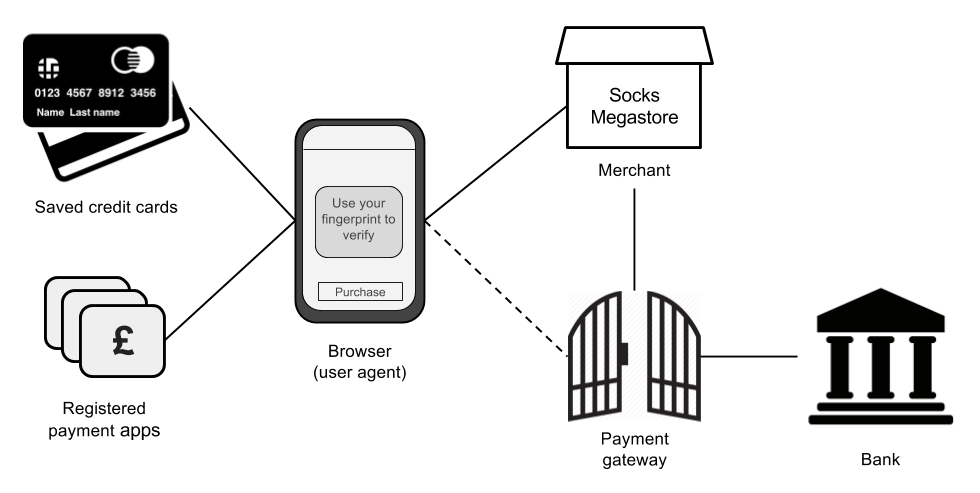
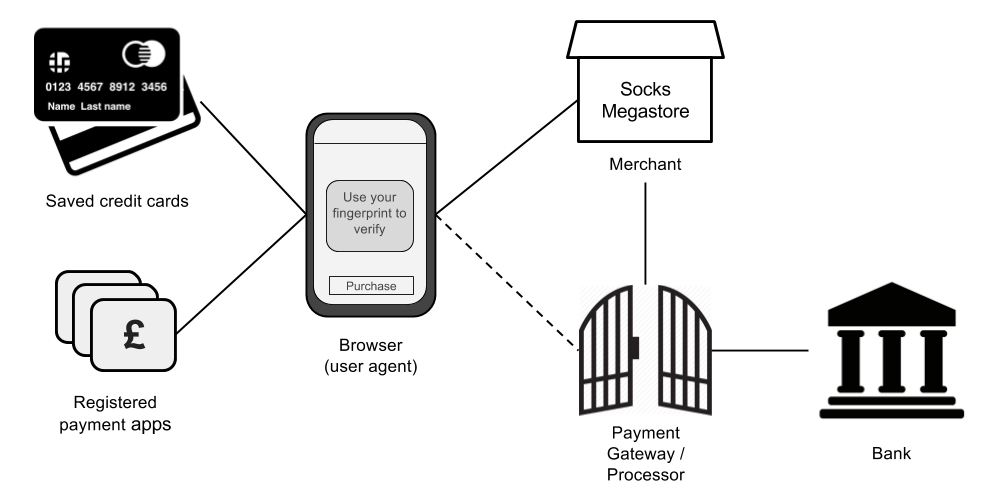
Updates - Payment Gateway / Processor

diff --git a/public/index.html b/public/index.html
@@ -1052,7 +1052,7 @@ h2 + .quote {
 <span class="hljs-keyword">new</span> PaymentRequest(methodData, details)
   .show()
   .then(<span class="hljs-function"><span class="hljs-keyword">function</span>(<span class="hljs-params">paymentResponse</span>) </span>{
-    <span class="hljs-comment">// Process paymentResponse via gateway, then...</span>
+    <span class="hljs-comment">// Process paymentResponse via gateway/processor, then...</span>
     paymentResponse.complete(<span class="hljs-string">'success'</span>);
   })
   .catch(<span class="hljs-function"><span class="hljs-keyword">function</span>(<span class="hljs-params">error</span>) </span>{
@@ -1232,8 +1232,9 @@ h2 + .quote {
 <div class="credit"><a href="https://www.flickr.com/photos/rayche1989/5203972988">Ray Che</a></div></section>
   </div>
   <div class="slide hidden  img-with-caption payment-gateways" id="slide-35">
-    <section class="slide-content"><h3 id="payment-gateways">Payment Gateways</h3>
-<p><img src="images/web-payments-parties.png" alt="Payment parties"></p>
+    <section class="slide-content"><p><img src="images/web-payments-parties.png" alt="Payment parties"></p>
+<div class="caption">Payment Gateways / Payment Processors / Payment Service Providers (PSPs)</div>
+
 <div class="credit"><a href="https://www.flickr.com/photos/rayche1989/5203972988">Ray Che</a></div>
 
 <!-- img-with-header -->
@@ -1242,8 +1243,9 @@ h2 + .quote {
 <!-- <div class="credit">[Ray Che](https://www.flickr.com/photos/rayche1989/5203972988)</div> --></section>
   </div>
   <div class="slide hidden" id="slide-36">
-    <section class="slide-content"><h3 id="example-payment-gateway-wepay">Example payment gateway: WePay</h3>
+    <section class="slide-content"><h3 id="example-psp-wepay">Example PSP: WePay</h3>
 <p><img src="images/wepay-screenshot.png" alt="WePay docs screenshot"></p>
+<pre><code class="lang-javascript">WePay.wallet.beginTokenization(...);</code></pre>
 <div class="caption"><a href="https://developer.wepay.com/docs/mobile/payment-request-api">developer.wepay.com/docs/mobile/payment-request-api</a></div>
 
 <div class="credit"><a href="https://www.flickr.com/photos/rayche1989/5203972988">Ray Che</a></div></section>

diff --git a/src/index.md b/src/index.md
@@ -178,7 +178,7 @@ var details = {
 new PaymentRequest(methodData, details)
   .show()
   .then(function(paymentResponse) {
-    // Process paymentResponse via gateway, then...
+    // Process paymentResponse via gateway/processor, then...
     paymentResponse.complete('success');
   })
   .catch(function(error) {
@@ -408,9 +408,9 @@ if (paymentRequest.canMakePayment) {
 
 -- img-with-caption payment-gateways
 
-### Payment Gateways
-
 ![Payment parties](images/web-payments-parties.png)
+
+<div class="caption">Payment Gateways / Payment Processors / Payment Service Providers (PSPs)</div>
 
 <div class="credit">[Ray Che](https://www.flickr.com/photos/rayche1989/5203972988)</div>
 
@@ -421,9 +421,13 @@ if (paymentRequest.canMakePayment) {
 
 --
 
-### Example payment gateway: WePay
+### Example PSP: WePay
 
 ![WePay docs screenshot](images/wepay-screenshot.png)
+
+```javascript
+WePay.wallet.beginTokenization(...);
+```
 
 <div class="caption">[developer.wepay.com/docs/mobile/payment-request-api](https://developer.wepay.com/docs/mobile/payment-request-api)</div>
 
